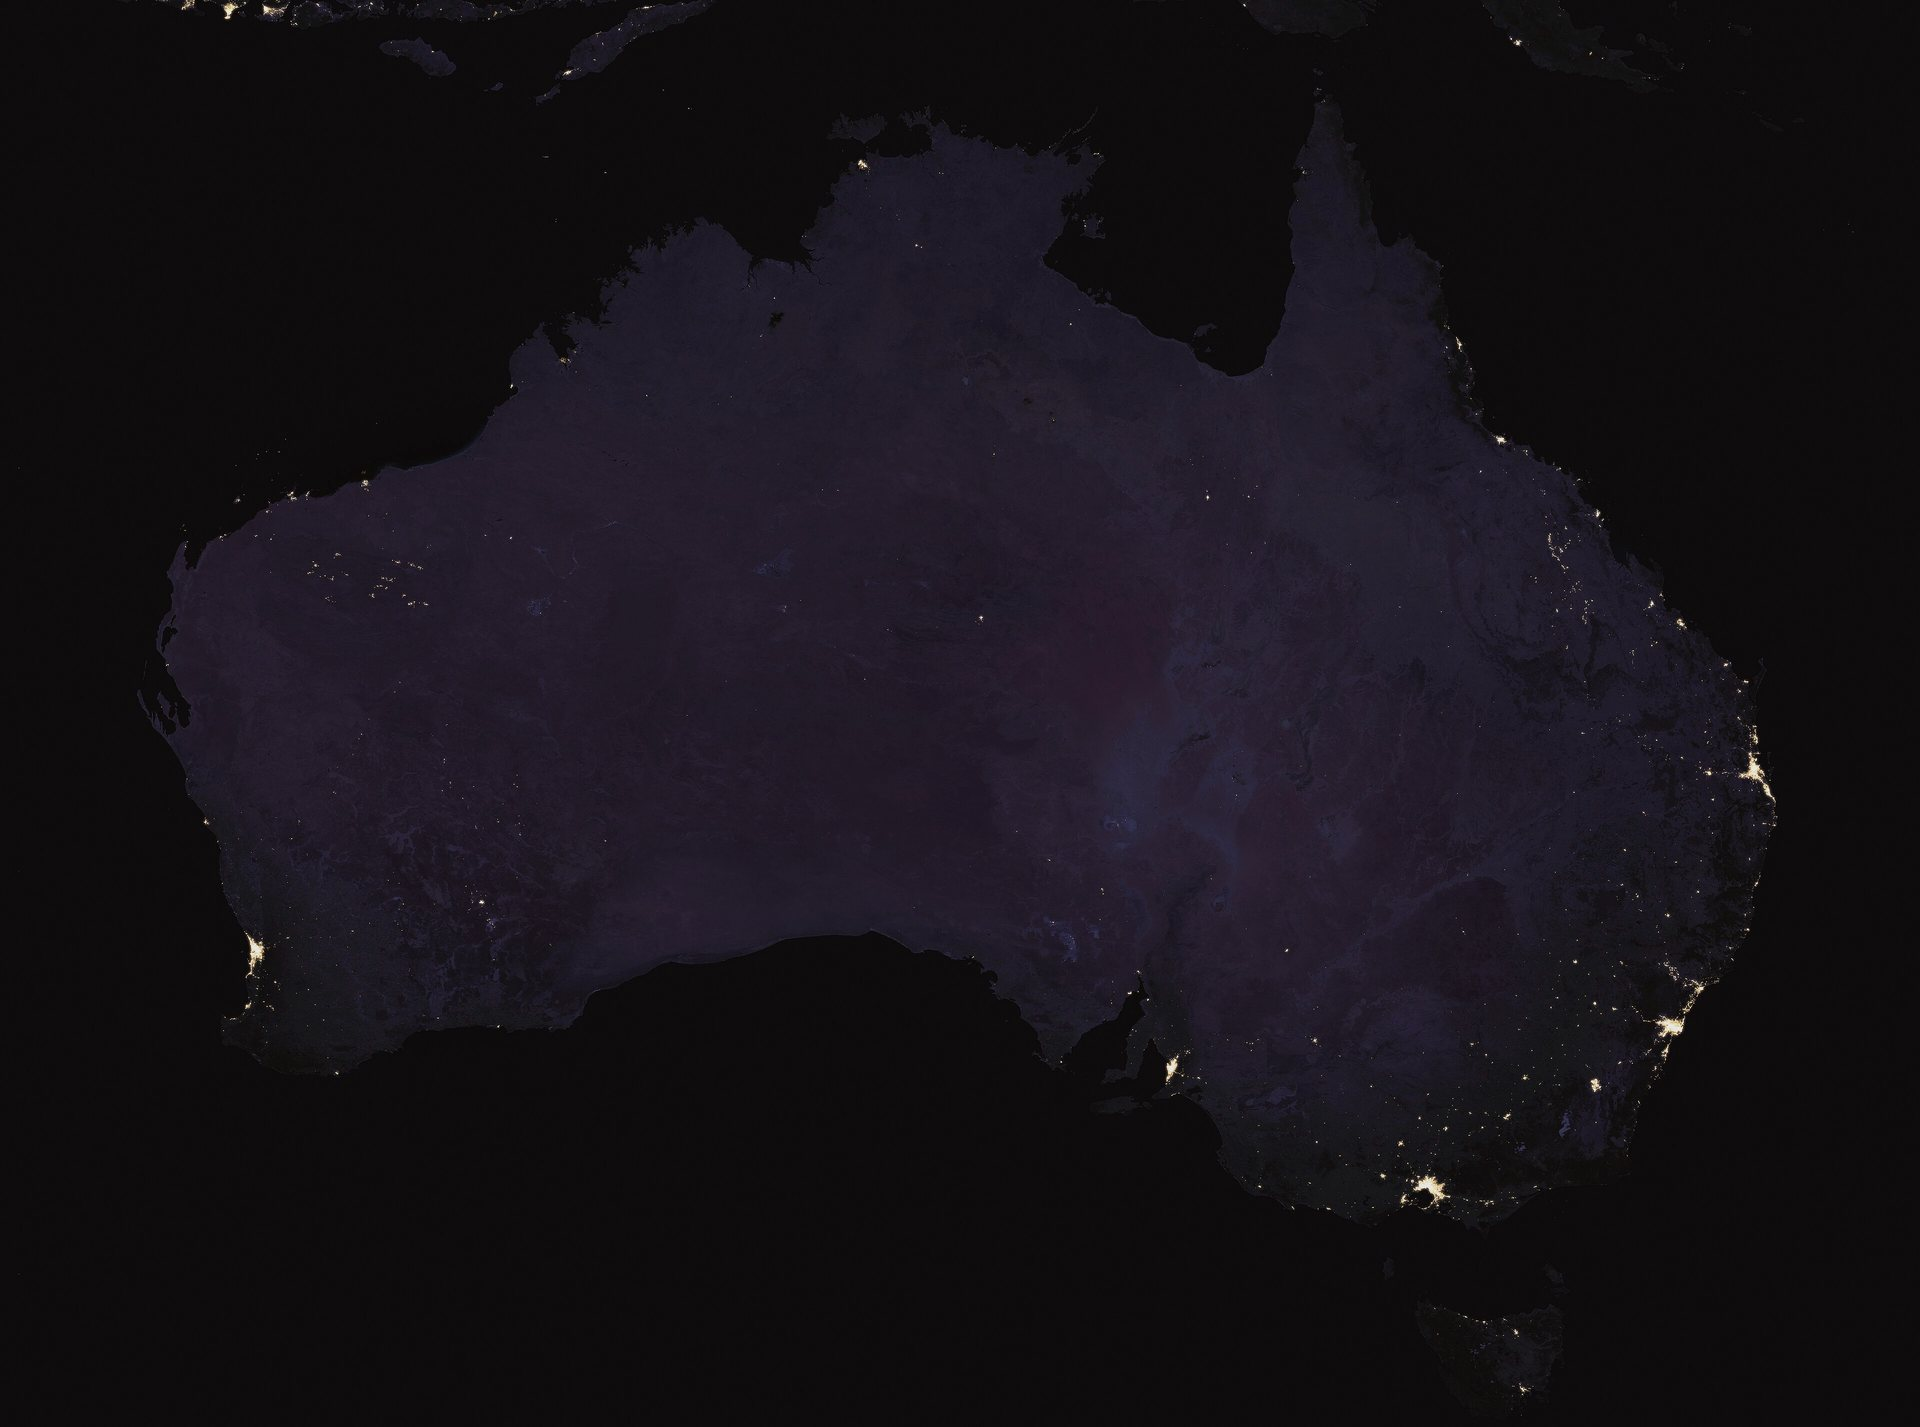
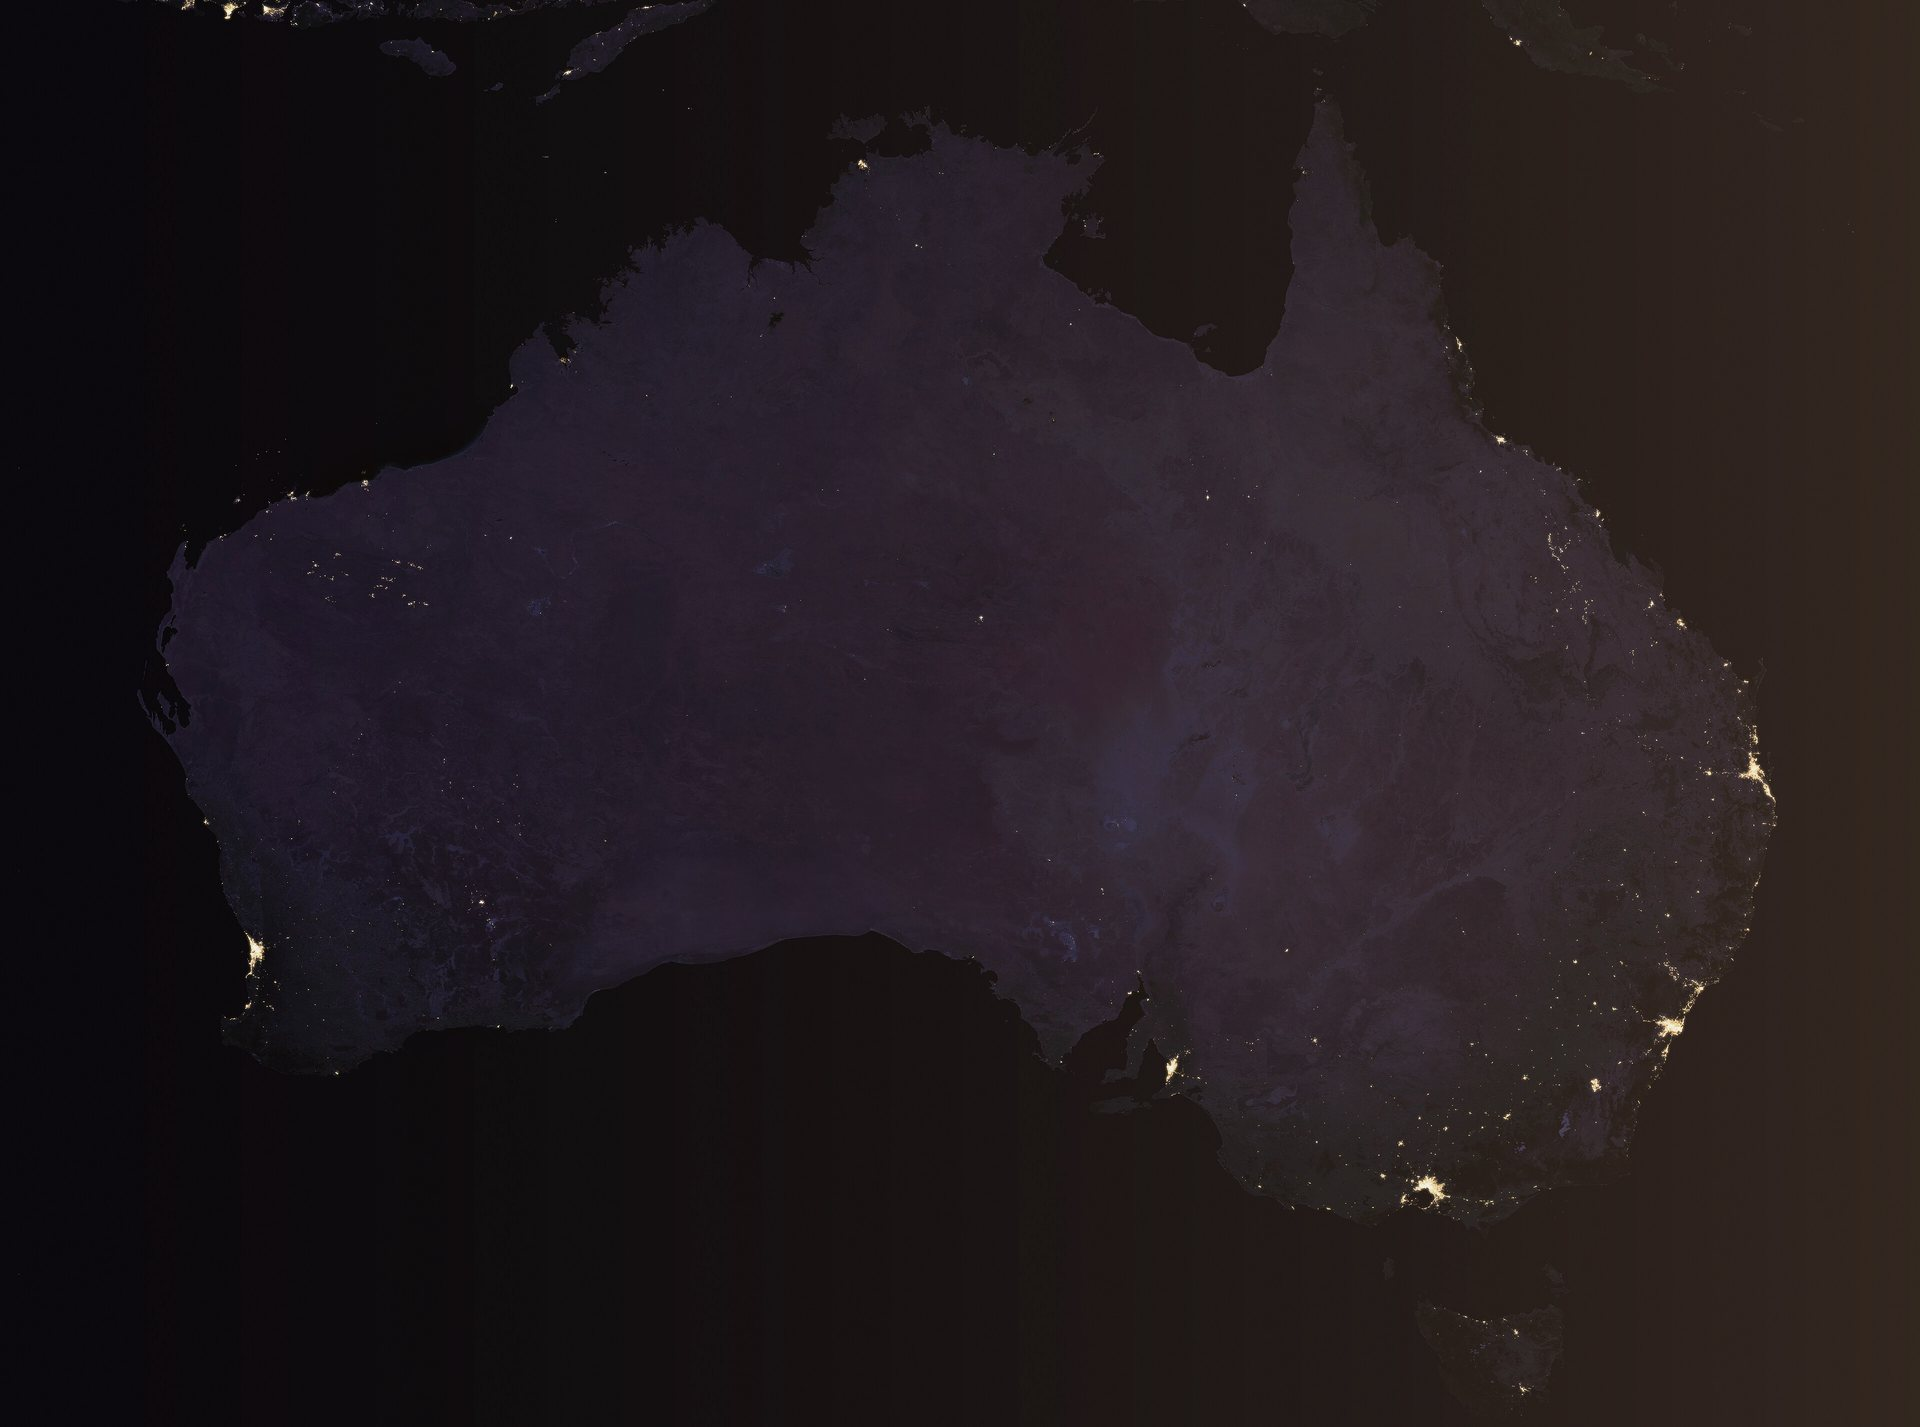
Map: Someday — dawn on the rim, not a site.
Disney stays off the page. Interior unlit. No lyrics, no characters, no cinema.

Changed region(s): [[0.7188, 0.0, 1.0, 1.0]]

diff --git a/index.html b/index.html
@@ -46,7 +46,7 @@
 <div class="wrap">
   <figure class="map-plate hero-plate">
     <img src="images/map-australia-night.jpg" alt="Australia at night — city lights on a dark continent. NASA Black Marble, Suomi NPP VIIRS, 2016 composite.">
-    <figcaption>The map. NASA Black Marble 2016 — Suomi NPP VIIRS. Public domain. Belt: science. Australian night. Coasts gold. Interior unlit. Not a film still. Not a facility.</figcaption>
+    <figcaption>The map. NASA Black Marble 2016 — Suomi NPP VIIRS. Public domain. Belt: science. Dawn on the rim. Interior unlit. Not a facility. Not a film still.</figcaption>
   </figure>
 </div>
 
@@ -57,7 +57,7 @@
     <p>They were wrong about the coastline. They were right that something had to be there.</p>
     <p>That instinct is worth taking seriously again, at a different scale. A civilisation reaching for more than one world has the same problem the old maps had: everything is concentrated at the top, and the bottom is a blank that someone assumes will sort itself out. The blank is where the redundancy has to go.</p>
     <p>A night survey lights the coasts. The interior, and the people who were here first, do not show as gold. They are not a blank. Free, Prior and Informed Consent stays above the legal minimum — a standard, not a chorus.</p>
-    <p class="source-link">Map: NASA Black Marble 2016 (Suomi NPP VIIRS). Public domain. Credit: NASA Earth Observatory / Joshua Stevens, VIIRS data Miguel Román, NASA GSFC. Presentation: Australian night, coasts gold, interior unlit. No cities added. Worry is allowed. The map still has to hold.</p>
+    <p class="source-link">Map: NASA Black Marble 2016 (Suomi NPP VIIRS). Public domain. Credit: NASA Earth Observatory / Joshua Stevens, VIIRS data Miguel Román, NASA GSFC. Presentation: a little dawn on the east rim. Interior left unlit. No cities added. Someday is not a site. The map is tonight.</p>
   </div>
 </section>
 
